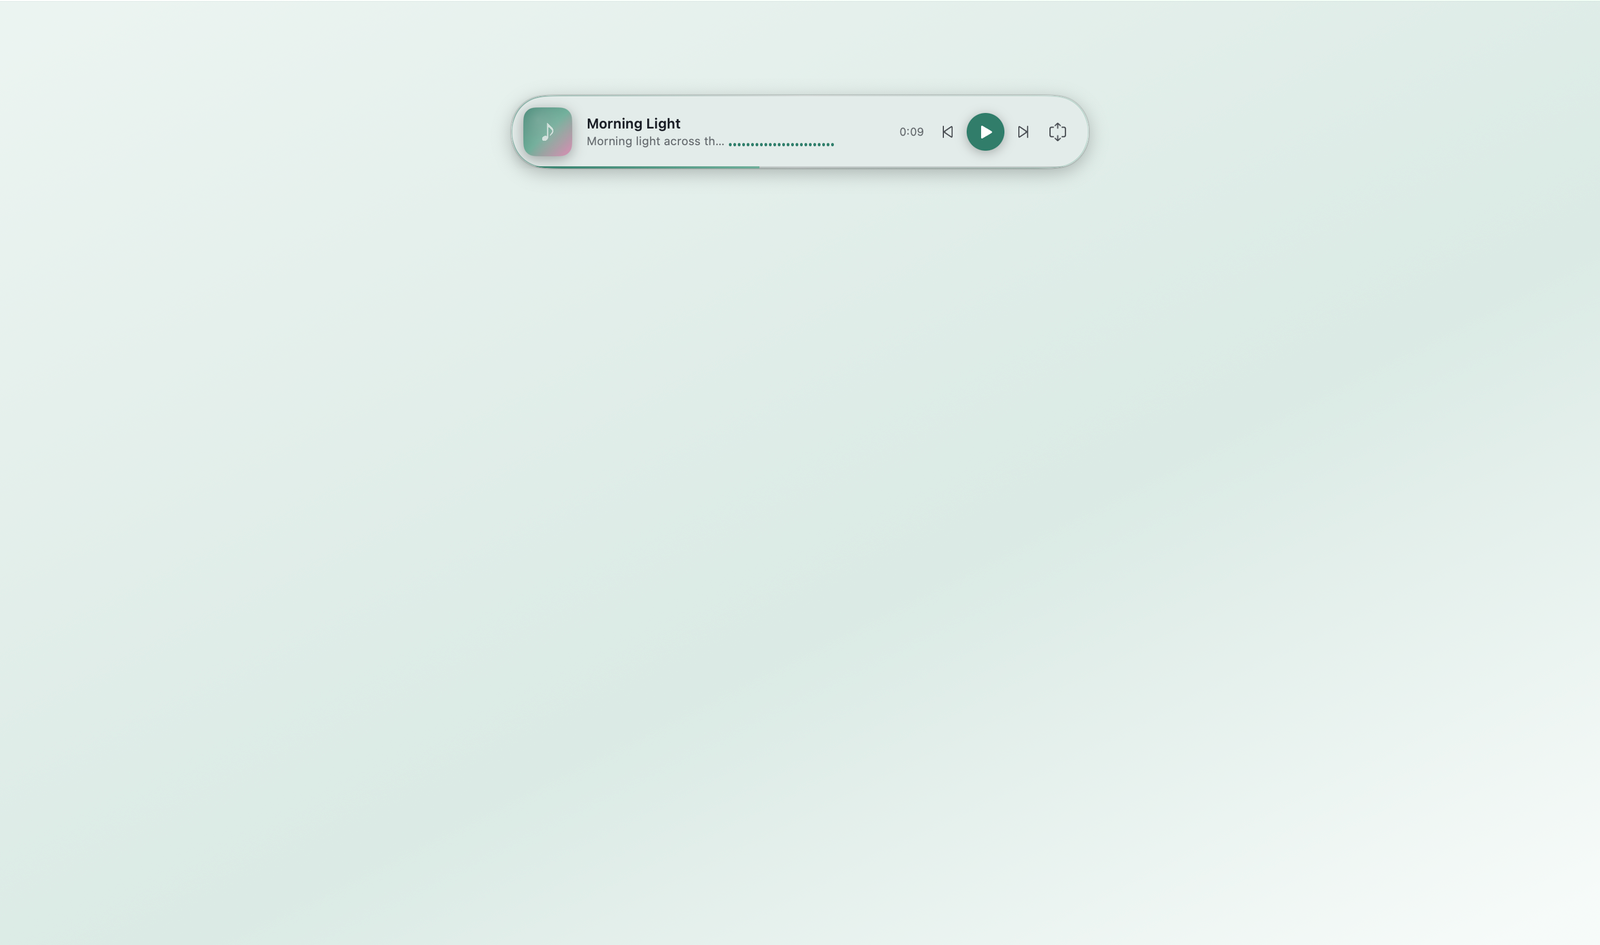
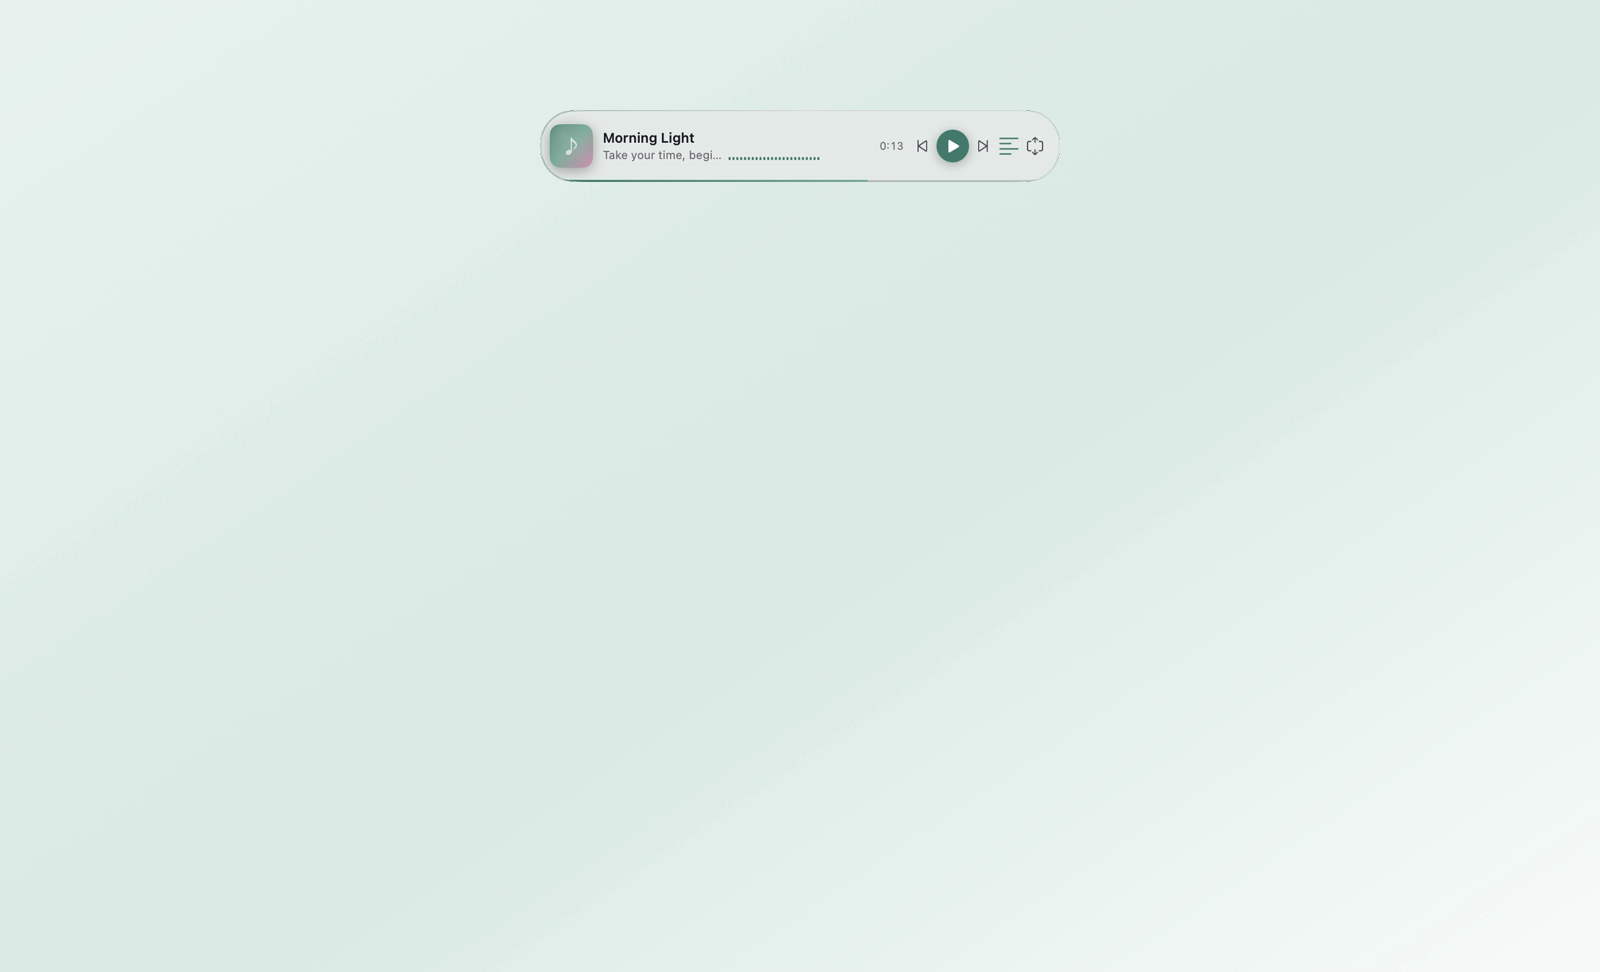
docs: refresh mini player and desktop lyrics screenshots
Use the 0.5.0 mini player layout (desktop-lyrics toggle, elapsed-only time, fixed spectrum) in both languages, and update the captions for the new lock hover pill and mini toggle.

Changed region(s): [[0.3125, 0.0921, 0.6875, 0.1841]]

diff --git a/README.en.md b/README.en.md
@@ -19,12 +19,12 @@ Scan folders recursively, read tags, artwork and durations, and sort by title, a
 ### Mini player: for working
 ![Mini player](docs/screenshots/mini-en.png)
 
-Switching to the mini player tucks the main window away and leaves a small always-available strip that never steals focus. It also shows the current lyric line.
+Switching to the mini player tucks the main window away and leaves a small always-available strip that never steals focus. It shows the current lyric line and has a desktop-lyrics toggle.
 
 ### Desktop lyrics: sing along
 ![Desktop lyrics](docs/screenshots/overlay-en.png)
 
-Lyrics float transparently over the desktop. Drag, resize, or lock them to click through; hovering a locked overlay still lets you drag it or click unlock. Two lines show the current and next line, following the system light/dark appearance.
+Lyrics float transparently over the desktop. Drag, resize, or lock them to click through; hovering a locked overlay reveals a small pill for dragging or unlocking. Two lines show the current and next line, following the system light/dark appearance.
 
 ### Lyrics page
 ![Lyrics page](docs/screenshots/lyrics-en.png)

diff --git a/README.md b/README.md
@@ -19,12 +19,12 @@
 ### 迷你窗口：工作时的小窗
 ![迷你窗口](docs/screenshots/mini-zh.png)
 
-切到迷你窗后主窗口自动收起，小窗常驻桌面，不抢焦点，适合边工作边听；窗内同时显示当前歌词。
+切到迷你窗后主窗口自动收起，小窗常驻桌面，不抢焦点，适合边工作边听；窗内显示当前歌词，并带有桌面歌词开关。
 
 ### 桌面歌词：跟唱模式
 ![桌面歌词](docs/screenshots/overlay-zh.png)
 
-歌词透明悬浮在桌面上，可拖动、缩放、锁定穿透；锁定后把鼠标移上去，仍可拖动或点解锁。双行显示当前与下一句，跟随系统浅色/深色外观。
+歌词透明悬浮在桌面上，可拖动、缩放、锁定穿透；锁定后悬停会出现拖动/解锁小胶囊。双行显示当前与下一句，跟随系统浅色/深色外观。
 
 ### 歌词页
 ![歌词页](docs/screenshots/lyrics-zh.png)
